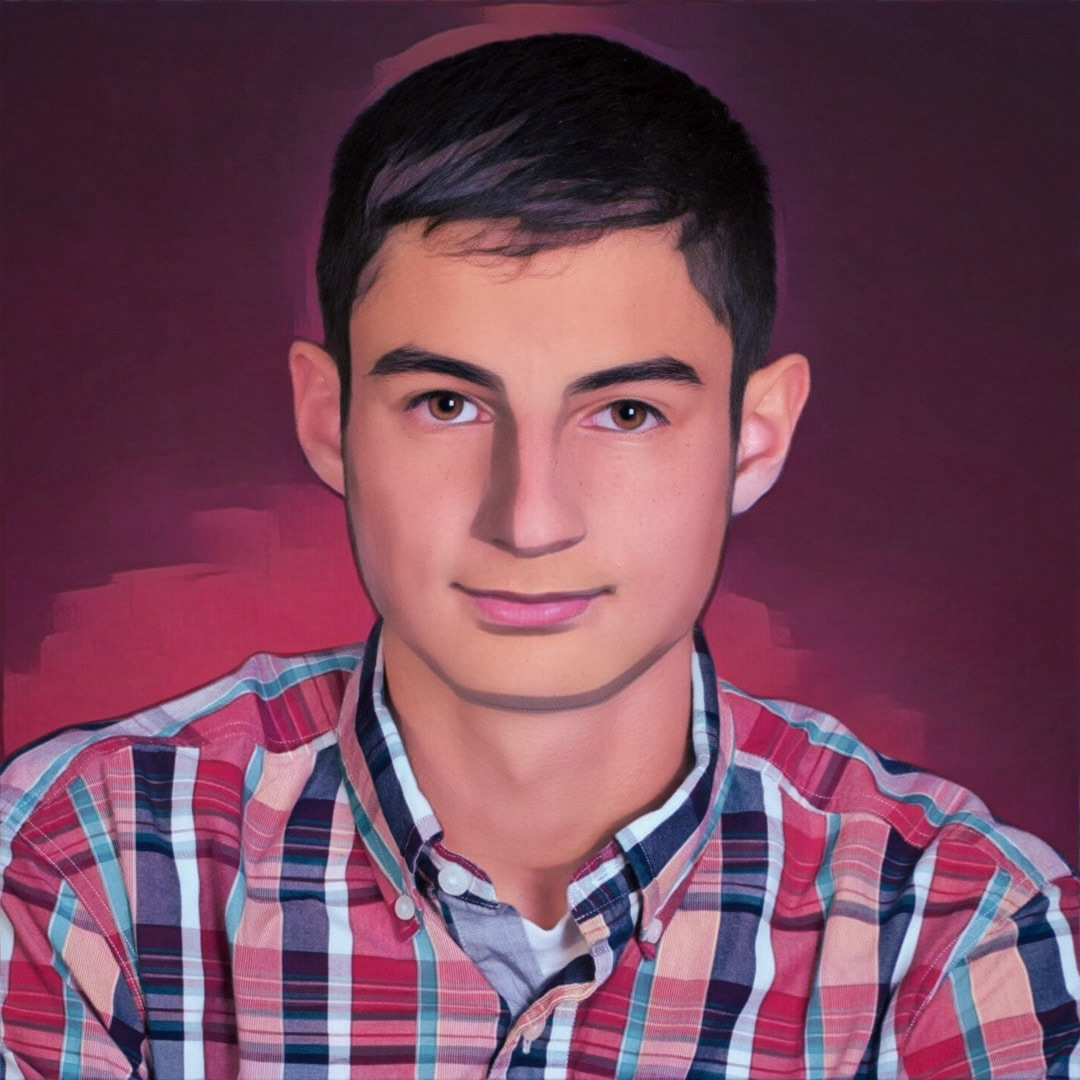
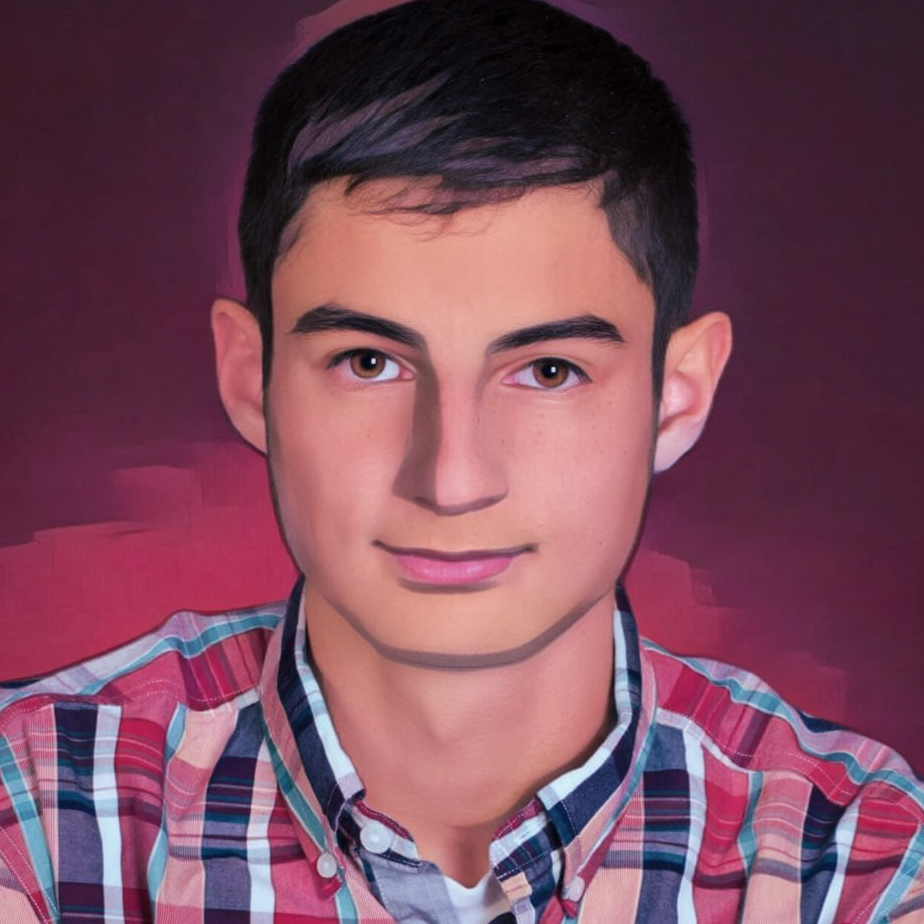
Changed profile image

diff --git a/index.html b/index.html
@@ -48,7 +48,7 @@ favicon.ico">
 <div class="flexxy">
     <div class="flex-top"></div>
     <div>
-        <img class="intro-profile noselect" src="img/profile.png">
+        <img class="intro-profile noselect img-circle" src="img/profile-full.jpg">
         <h1 class="intro-title noselect">David Corbin</h1>
         <h4 class="intro-text noselect"><span>Engineer, Programmer, Musician</span></h4>
 

diff --git a/css/style.css b/css/style.css
@@ -48,8 +48,8 @@ body:not(.iOS) #lines * {
 }
 
 .intro-profile {
-    height: 200px;
-    width: 200px;
+    height: 125px;
+    width: 125px;
     margin: 0 auto;
     display: block;
     opacity: 0;
